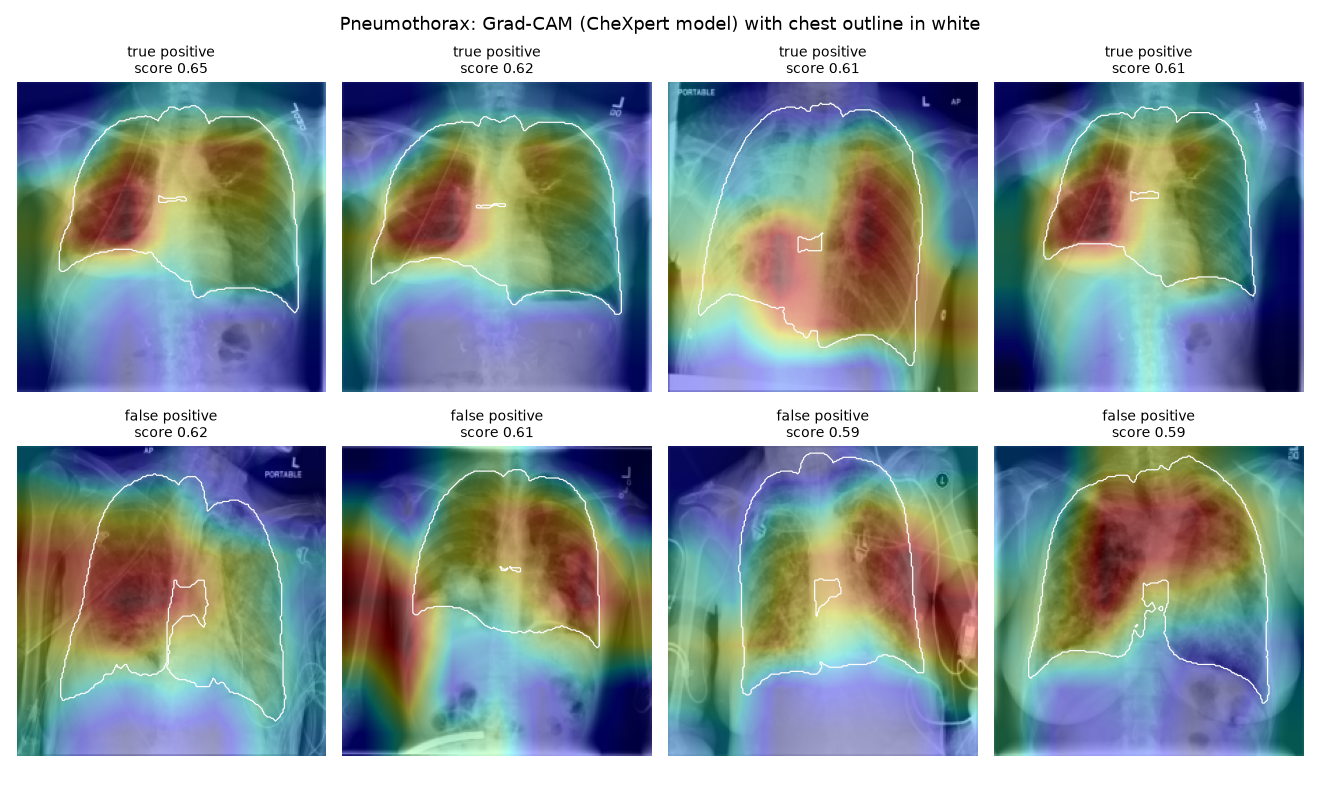
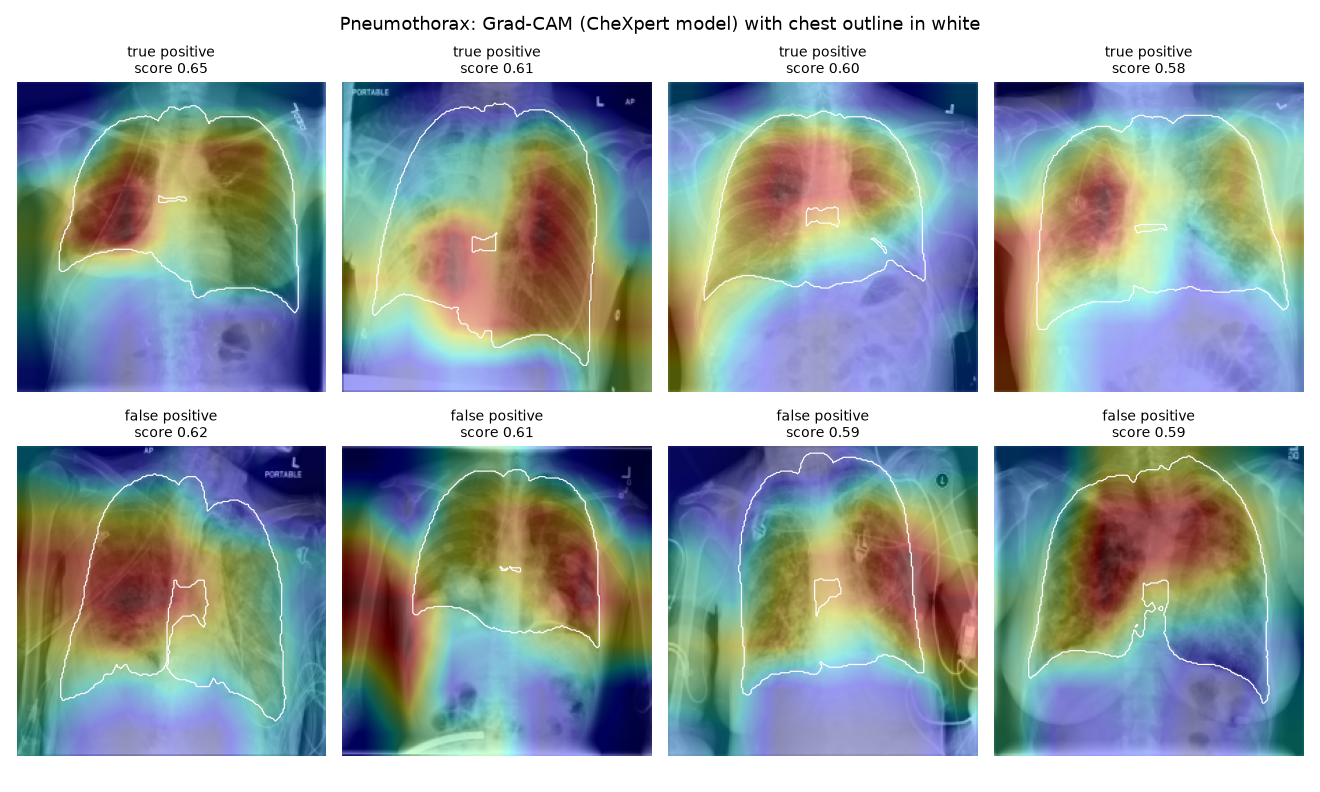
Grad-CAM audit (one image per patient) with anatomical masks; AP/PA view confounding

Changed region(s): [[0.2485, 0.0606, 0.9939, 0.5152]]

diff --git a/scripts/gradcam_audit.py b/scripts/gradcam_audit.py
@@ -33,11 +33,20 @@ WEIGHTS = "densenet121-res224-chex"
 
 
 def select(labels, preds, finding, n):
-    """Indices of the n most confident true positives and false positives."""
+    """Indices of the n most confident true positives and false positives.
+
+    At most one image per patient (their highest-scoring one), so repeat films
+    of the same patient cannot fill the sample and the gallery.
+    """
     score = preds[f"chex:{finding}"]
     pos = labels[finding] == 1
-    tp = score[pos].sort_values(ascending=False).index[:n]
-    fp = score[~pos].sort_values(ascending=False).index[:n]
+
+    def top_per_patient(mask):
+        ranked = score[mask].sort_values(ascending=False)
+        first = ~labels.loc[ranked.index, "patient_id"].duplicated()
+        return ranked.index[first.to_numpy()][:n]
+
+    tp, fp = top_per_patient(pos), top_per_patient(~pos)
     return [("true positive", i) for i in tp] + [("false positive", i) for i in fp]
 
 
@@ -130,7 +139,7 @@ def main():
     })
     md = ("# Grad-CAM audit of the CheXpert model on NIH images\n\n"
           f"For each finding, the {args.n} most confident true positives and the {args.n} most "
-          "confident false positives. \"Heatmap inside chest\" is the share of Grad-CAM weight "
+          "confident false positives, one image per patient. \"Heatmap inside chest\" is the share of Grad-CAM weight "
           "inside the lungs, heart and mediastinum. \"Lift\" divides it by the chest's share of "
           "the image (1.0 = no more focused than a uniform heatmap). \"Mostly outside chest\" "
           "counts heatmaps with under half their weight inside.\n\n"

diff --git a/results/gradcam_audit.md b/results/gradcam_audit.md
@@ -1,12 +1,12 @@
 # Grad-CAM audit of the CheXpert model on NIH images
 
-For each finding, the 30 most confident true positives and the 30 most confident false positives. "Heatmap inside chest" is the share of Grad-CAM weight inside the lungs, heart and mediastinum. "Lift" divides it by the chest's share of the image (1.0 = no more focused than a uniform heatmap). "Mostly outside chest" counts heatmaps with under half their weight inside.
+For each finding, the 30 most confident true positives and the 30 most confident false positives, one image per patient. "Heatmap inside chest" is the share of Grad-CAM weight inside the lungs, heart and mediastinum. "Lift" divides it by the chest's share of the image (1.0 = no more focused than a uniform heatmap). "Mostly outside chest" counts heatmaps with under half their weight inside.
 
 | Finding      | Group          |   Images | Heatmap inside chest   | Chest share of image   |   Lift | Mostly outside chest   | AP (portable) views   |
 |:-------------|:---------------|---------:|:-----------------------|:-----------------------|-------:|:-----------------------|:----------------------|
-| Cardiomegaly | true positive  |       30 | 58.6%                  | 30.0%                  |   1.95 | 27%                    | 97%                   |
-| Cardiomegaly | false positive |       30 | 54.2%                  | 29.0%                  |   1.87 | 33%                    | 97%                   |
-| Effusion     | true positive  |       30 | 41.6%                  | 26.0%                  |   1.6  | 77%                    | 90%                   |
-| Effusion     | false positive |       30 | 37.4%                  | 22.8%                  |   1.64 | 90%                    | 97%                   |
-| Pneumothorax | true positive  |       30 | 50.2%                  | 34.3%                  |   1.46 | 53%                    | 13%                   |
+| Cardiomegaly | true positive  |       30 | 56.7%                  | 29.3%                  |   1.94 | 30%                    | 93%                   |
+| Cardiomegaly | false positive |       30 | 52.2%                  | 27.6%                  |   1.89 | 40%                    | 97%                   |
+| Effusion     | true positive  |       30 | 41.8%                  | 26.6%                  |   1.57 | 73%                    | 90%                   |
+| Effusion     | false positive |       30 | 37.2%                  | 22.8%                  |   1.63 | 90%                    | 97%                   |
+| Pneumothorax | true positive  |       30 | 47.8%                  | 34.3%                  |   1.4  | 57%                    | 17%                   |
 | Pneumothorax | false positive |       30 | 48.8%                  | 34.6%                  |   1.41 | 63%                    | 17%                   |
